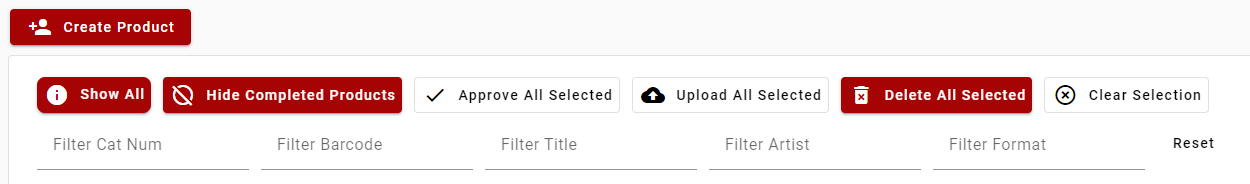
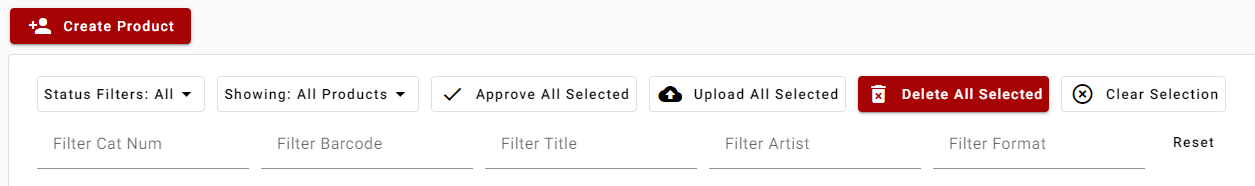
add docs for product dashboard multiple status changes

diff --git a/documents/Products/products-dashboard.md b/documents/Products/products-dashboard.md
@@ -61,11 +61,16 @@ On the Product dashboard you can search by fields:
 - Artist
 - Format
 
-You can also filter by [Product Statuses](#product-statuses) and whether or not a Product has completed or not via the "Show Completed Products" / "Hide Completed Products" button. The reset button will clear the values in the text search fields.
+You can also filter by [Product Statuses](#product-statuses) and whether or not a Product has been completed or not via the [Upload Status](#product-upload-statuses) dropdown. The reset button will clear the values in the text search fields.
 
 The current value of your text search fields will be saved to your browser for when you log back in.
 
 ## Product Statuses {#product-statuses}
+
+Product Statuses can be selected from the dropdown. They can be: all selected, all deselected or selected indivudally to form a custom set.
+
+![Product Status Dropdown](../../static/img/pages/products/statuses/pw_product_status_dropdown.png)
+
 There are 8 Product statuses within ProperWeb which are:
 
 ### Newly Created
@@ -108,3 +113,6 @@ A Product will have this status when it has been successfully uploaded to Basil 
 
 ![Product Status Completed](../../static/img/pages/products/statuses/pw_product_status_completed.png)
 
+## Product Upload Statuses {#product-upload-statuses}
+
+![Product Upload Status Dropdown](../../static/img/pages/products/pw_products_product_upload_status_dropdown.png)
